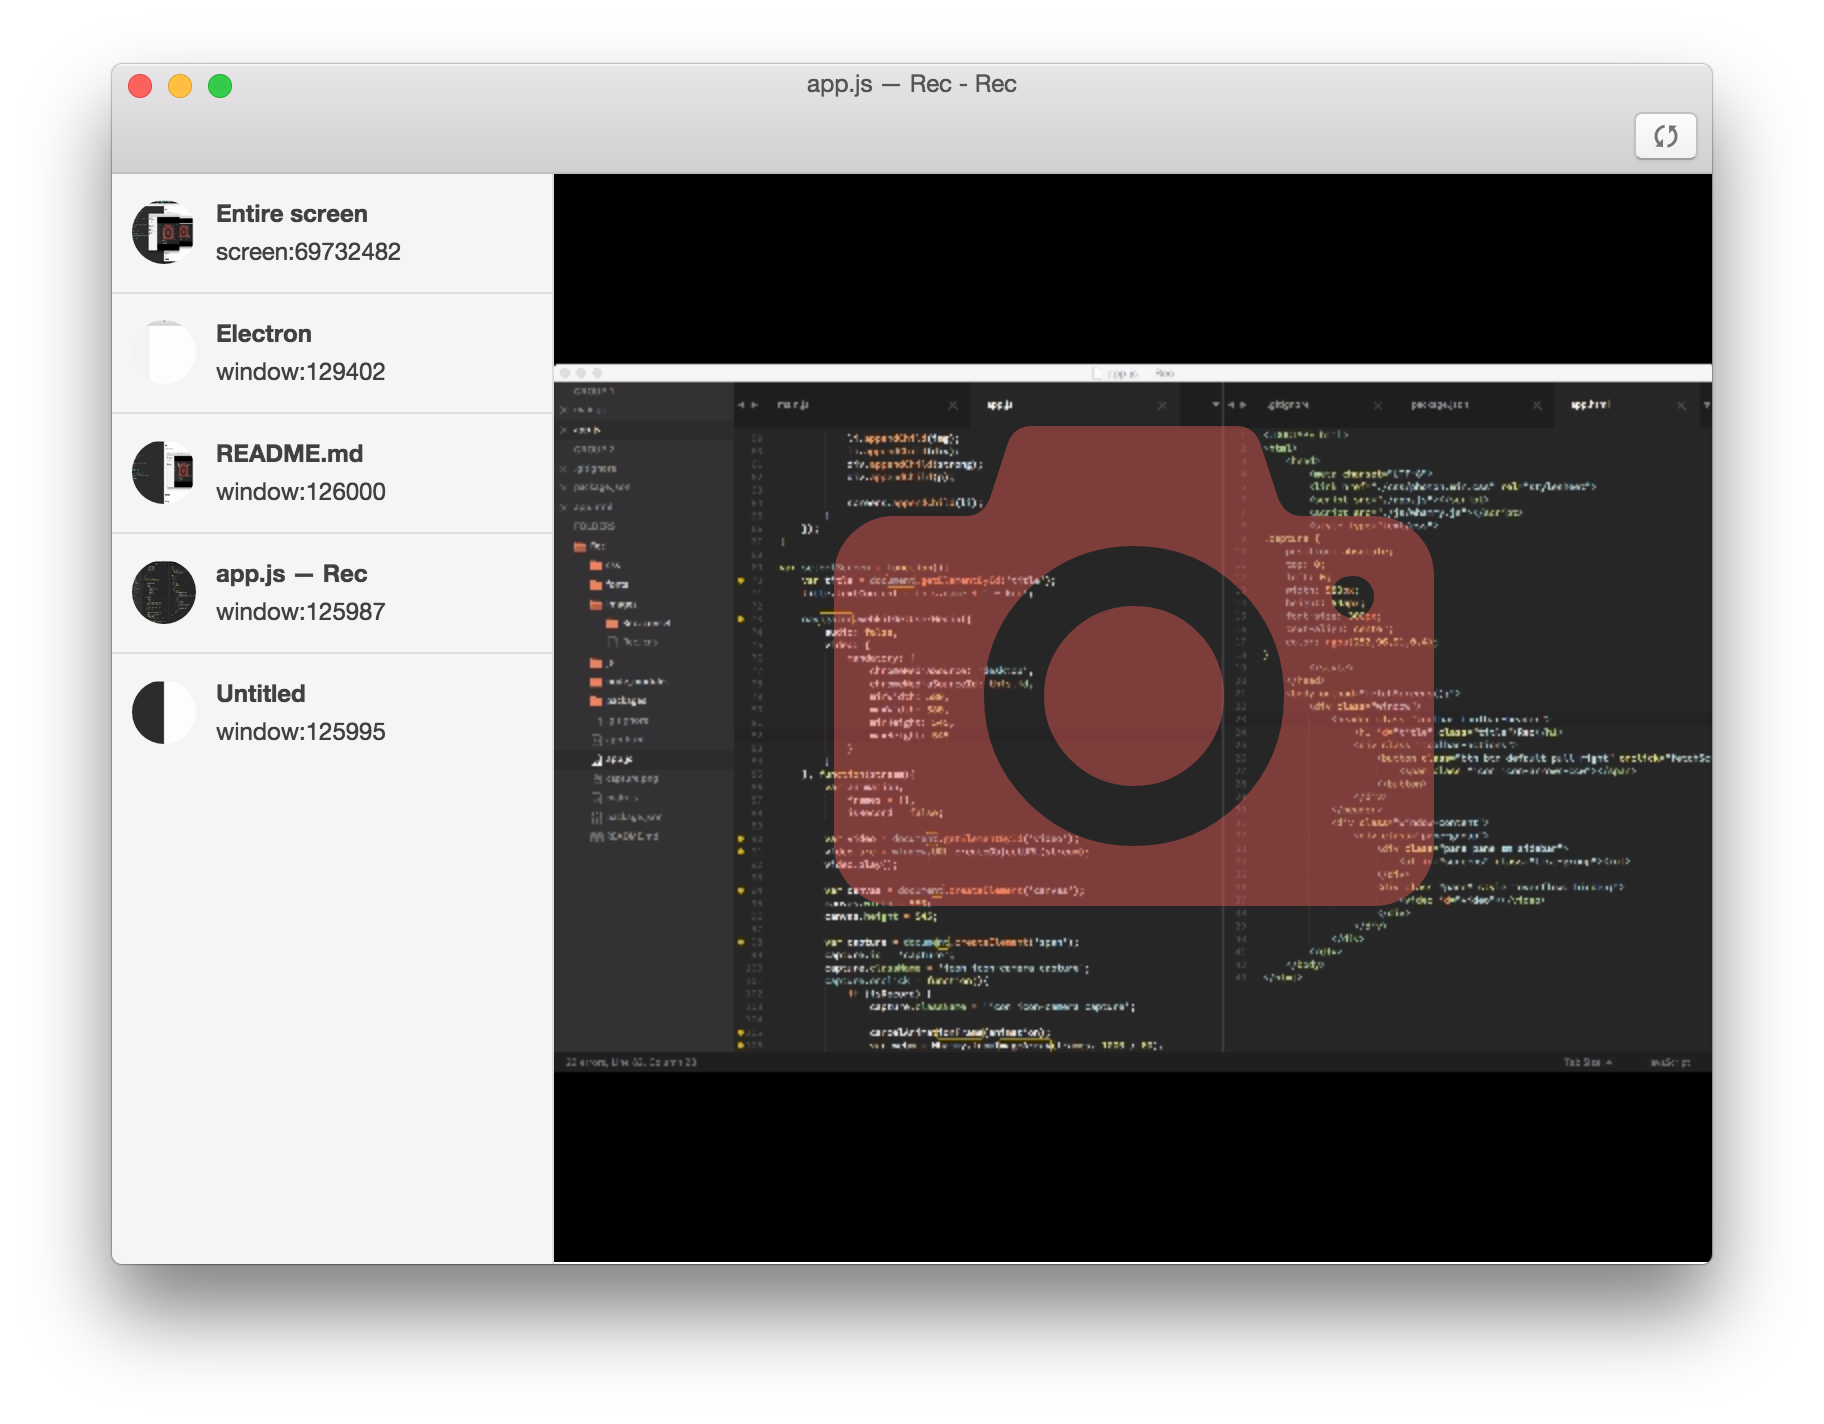
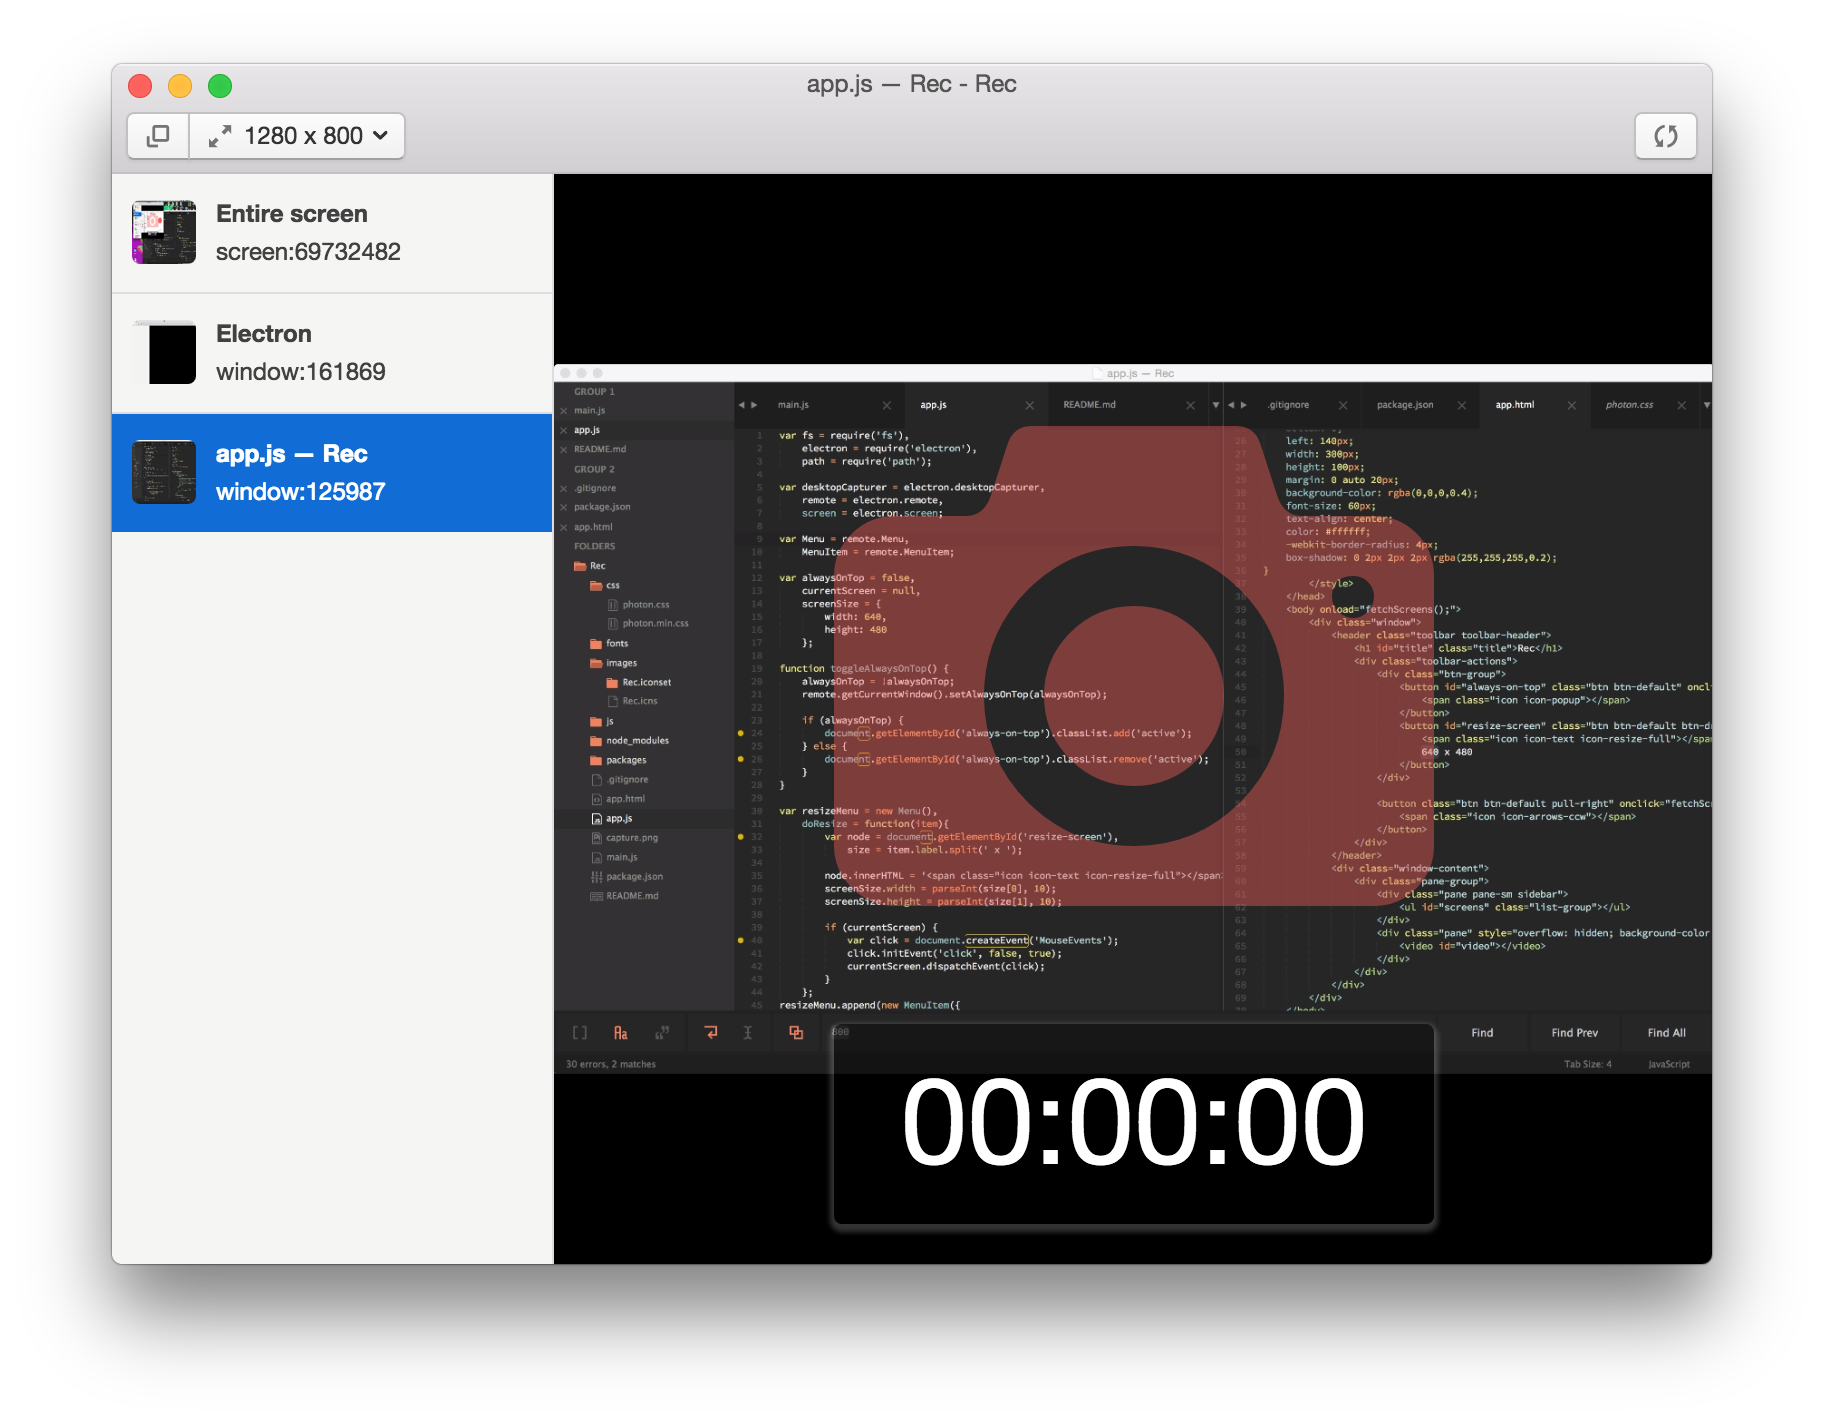
updated readme

diff --git a/README.md b/README.md
@@ -4,6 +4,10 @@
 
 ![capture](capture.png)
 
+## Features
+
+* Recording the your desktop or application window
+* Select the recording size
 
 ## Download
 
